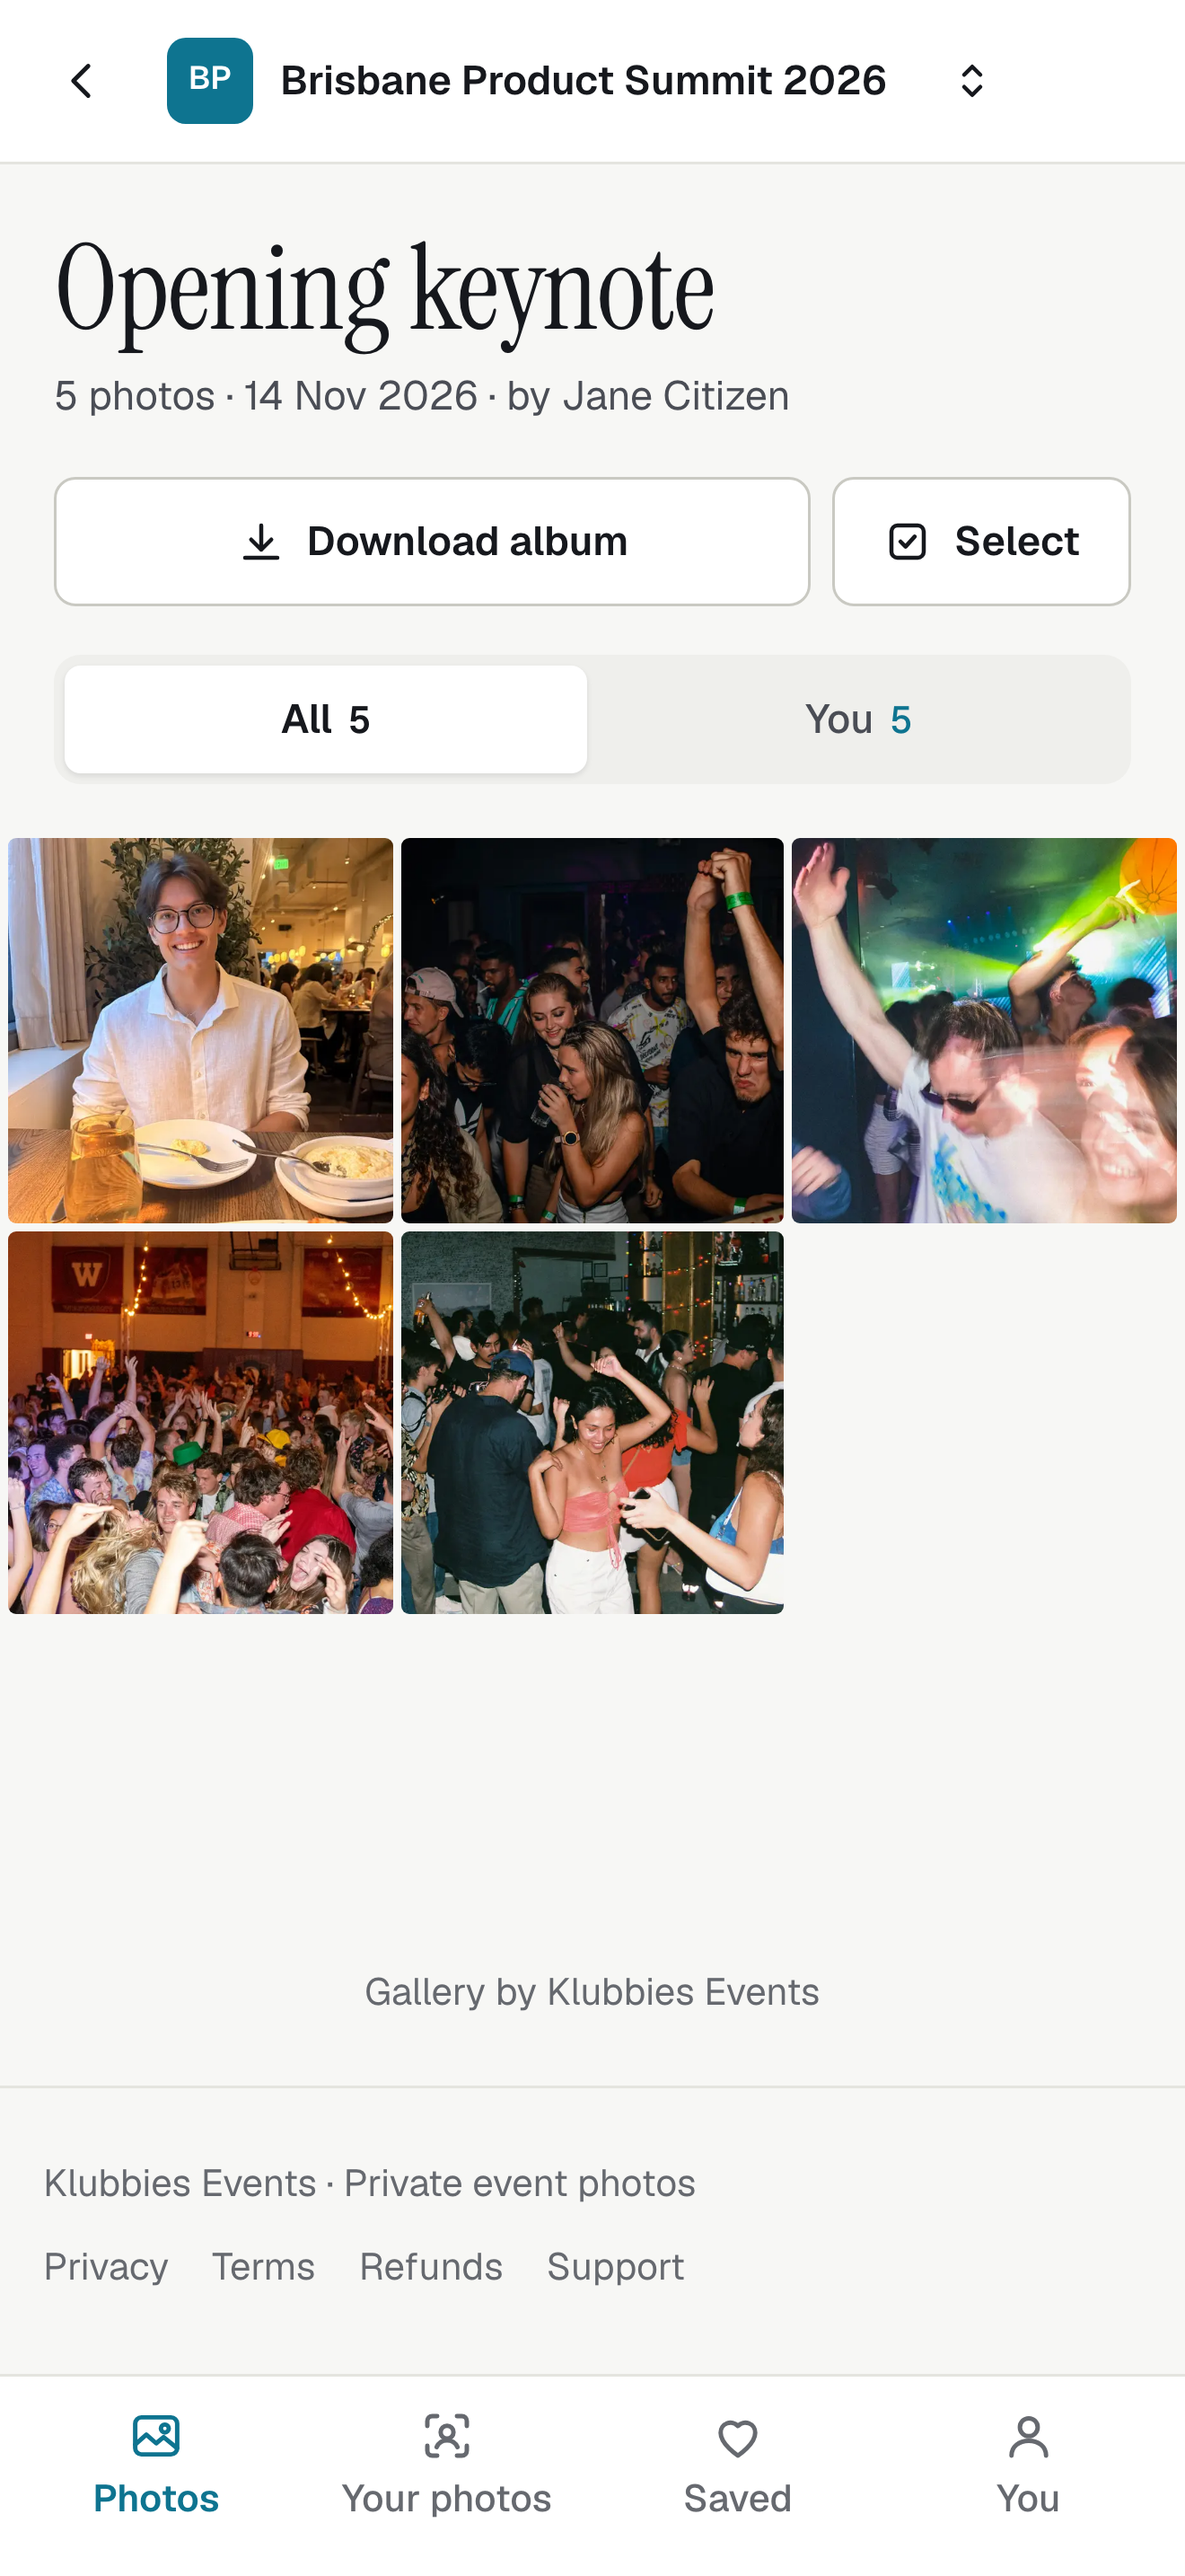
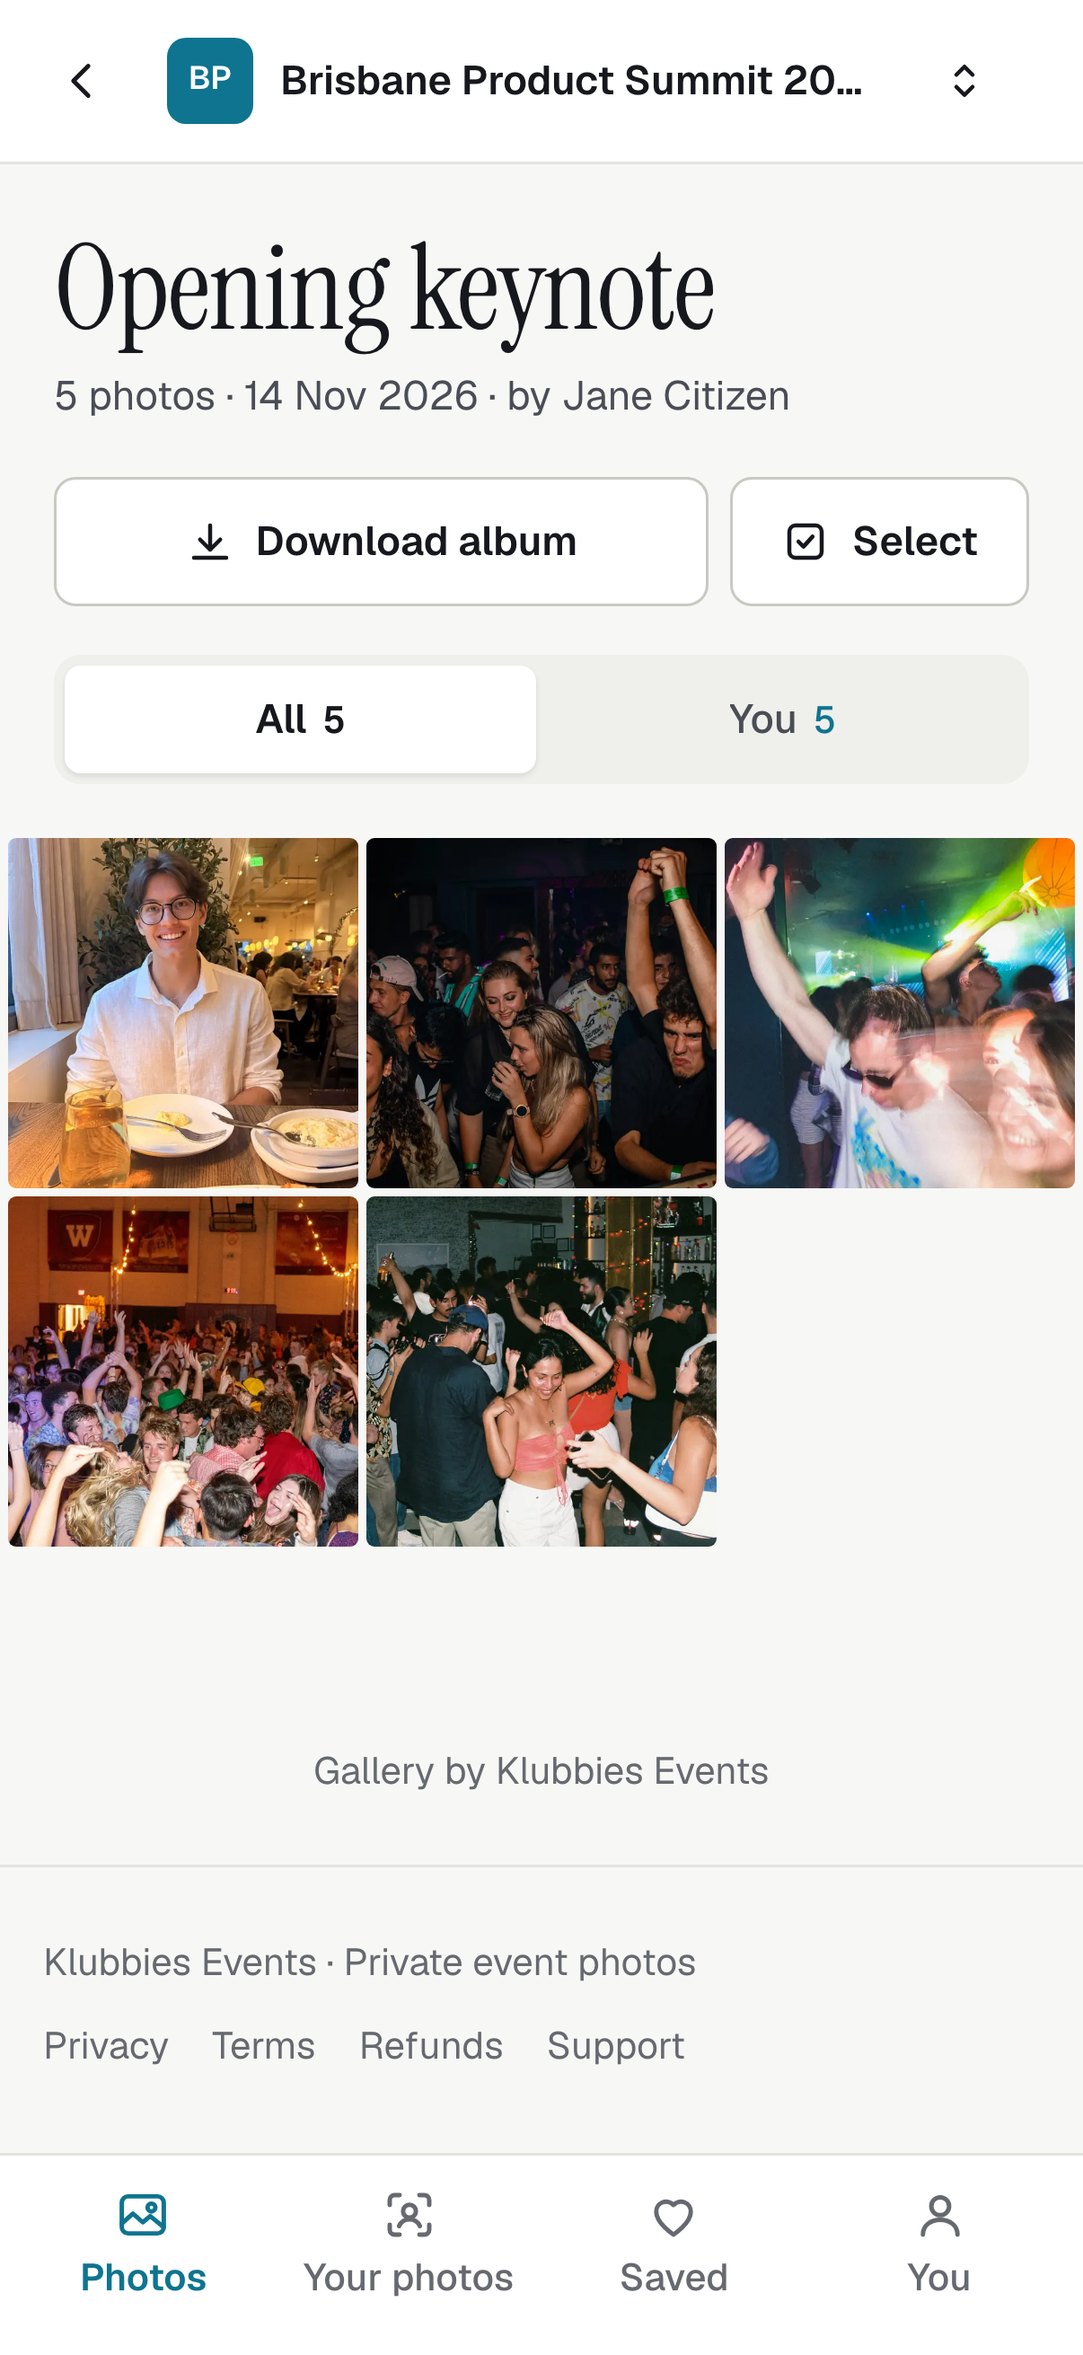
App Store screenshots at 6.3 inch, the size App Store Connect requires.
Its required slot ("iPhone with Dynamic Island, medium display") takes
1206 × 2622 or 1179 × 2556 and refused 1320 × 2868. The script now renders
402 × 874 points at 3x; the six screenshots are retaken and uploaded.

diff --git a/scripts/app-store-screenshots.ts b/scripts/app-store-screenshots.ts
@@ -1,5 +1,6 @@
 /**
- * App Store screenshots for the 6.9 inch iPhone (1320 × 2868), from the demo
+ * App Store screenshots for the 6.3 inch iPhone (1206 × 2622), the size App Store
+ * Connect asks for ("iPhone with Dynamic Island, medium display"), from the demo
  * event on a local dev server, as the iPhone app shows them (its user agent,
  * so no payment prompts and the QR scanner button).
  *
@@ -134,7 +135,8 @@ async function shoot(page: Page, name: string, path: string, prepare?: (page: Pa
 async function main() {
   await mkdir(OUT, { recursive: true });
   const browser = await chromium.launch();
-  const device = { viewport: { width: 440, height: 956 }, deviceScaleFactor: 3, isMobile: true, hasTouch: true, userAgent: APP_UA };
+  // 402 × 874 points at 3x: 1206 × 2622, iPhone 17 / 16 Pro.
+  const device = { viewport: { width: 402, height: 874 }, deviceScaleFactor: 3, isMobile: true, hasTouch: true, userAgent: APP_UA };
 
   // Signed out first: the event's join screen, which the QR scanner opens.
   const guest = await browser.newContext(device);

diff --git a/docs/app-store/listing.md b/docs/app-store/listing.md
@@ -53,7 +53,9 @@ event photos,conference,QR,selfie,photo sharing,gallery,photographer,corporate,f
 
 The first release of Klubbies Events.
 
-## Screenshots (6.9 inch, 1320 × 2868)
+## Screenshots (6.3 inch, 1206 × 2622)
+
+App Store Connect's required slot is "iPhone with Dynamic Island (medium display)": 1206 × 2622 or 1179 × 2556. It refused 1320 × 2868.
 
 In `docs/app-store/screenshots/`, in this order:
 
